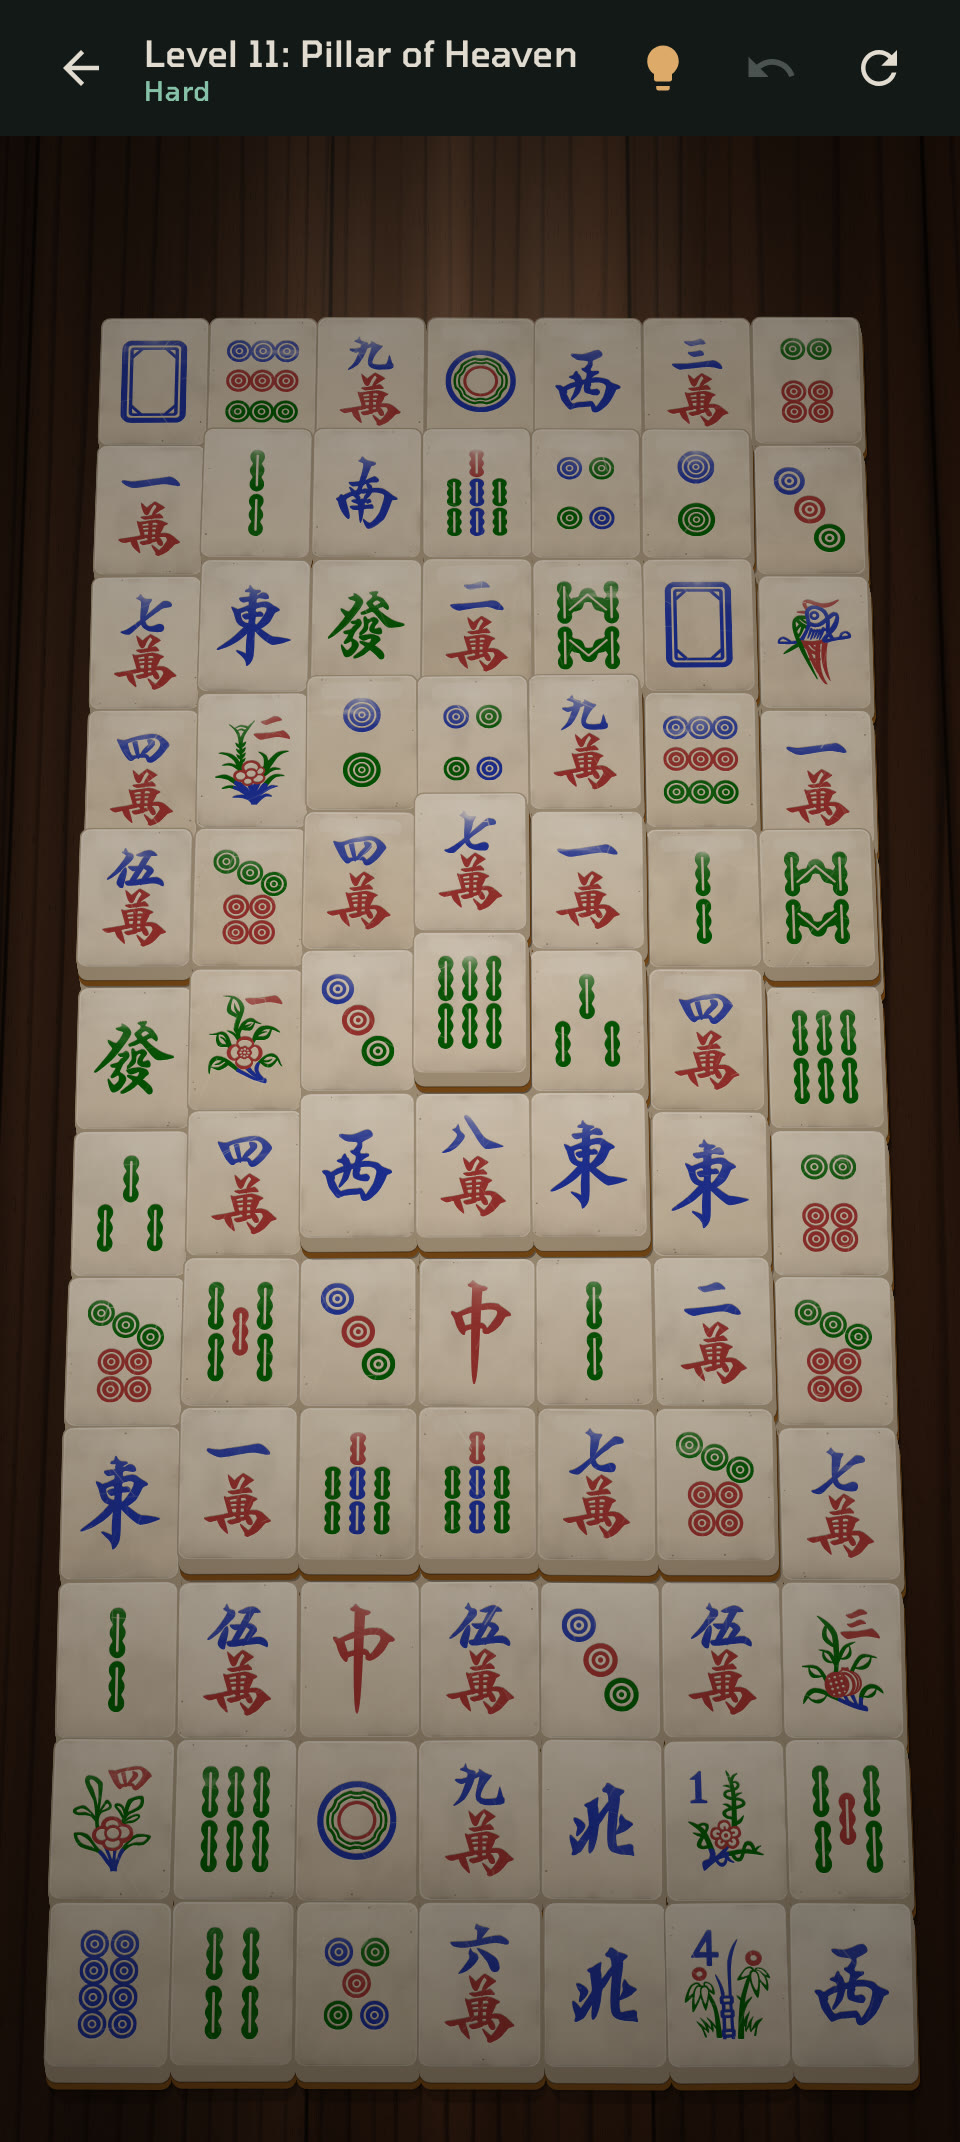
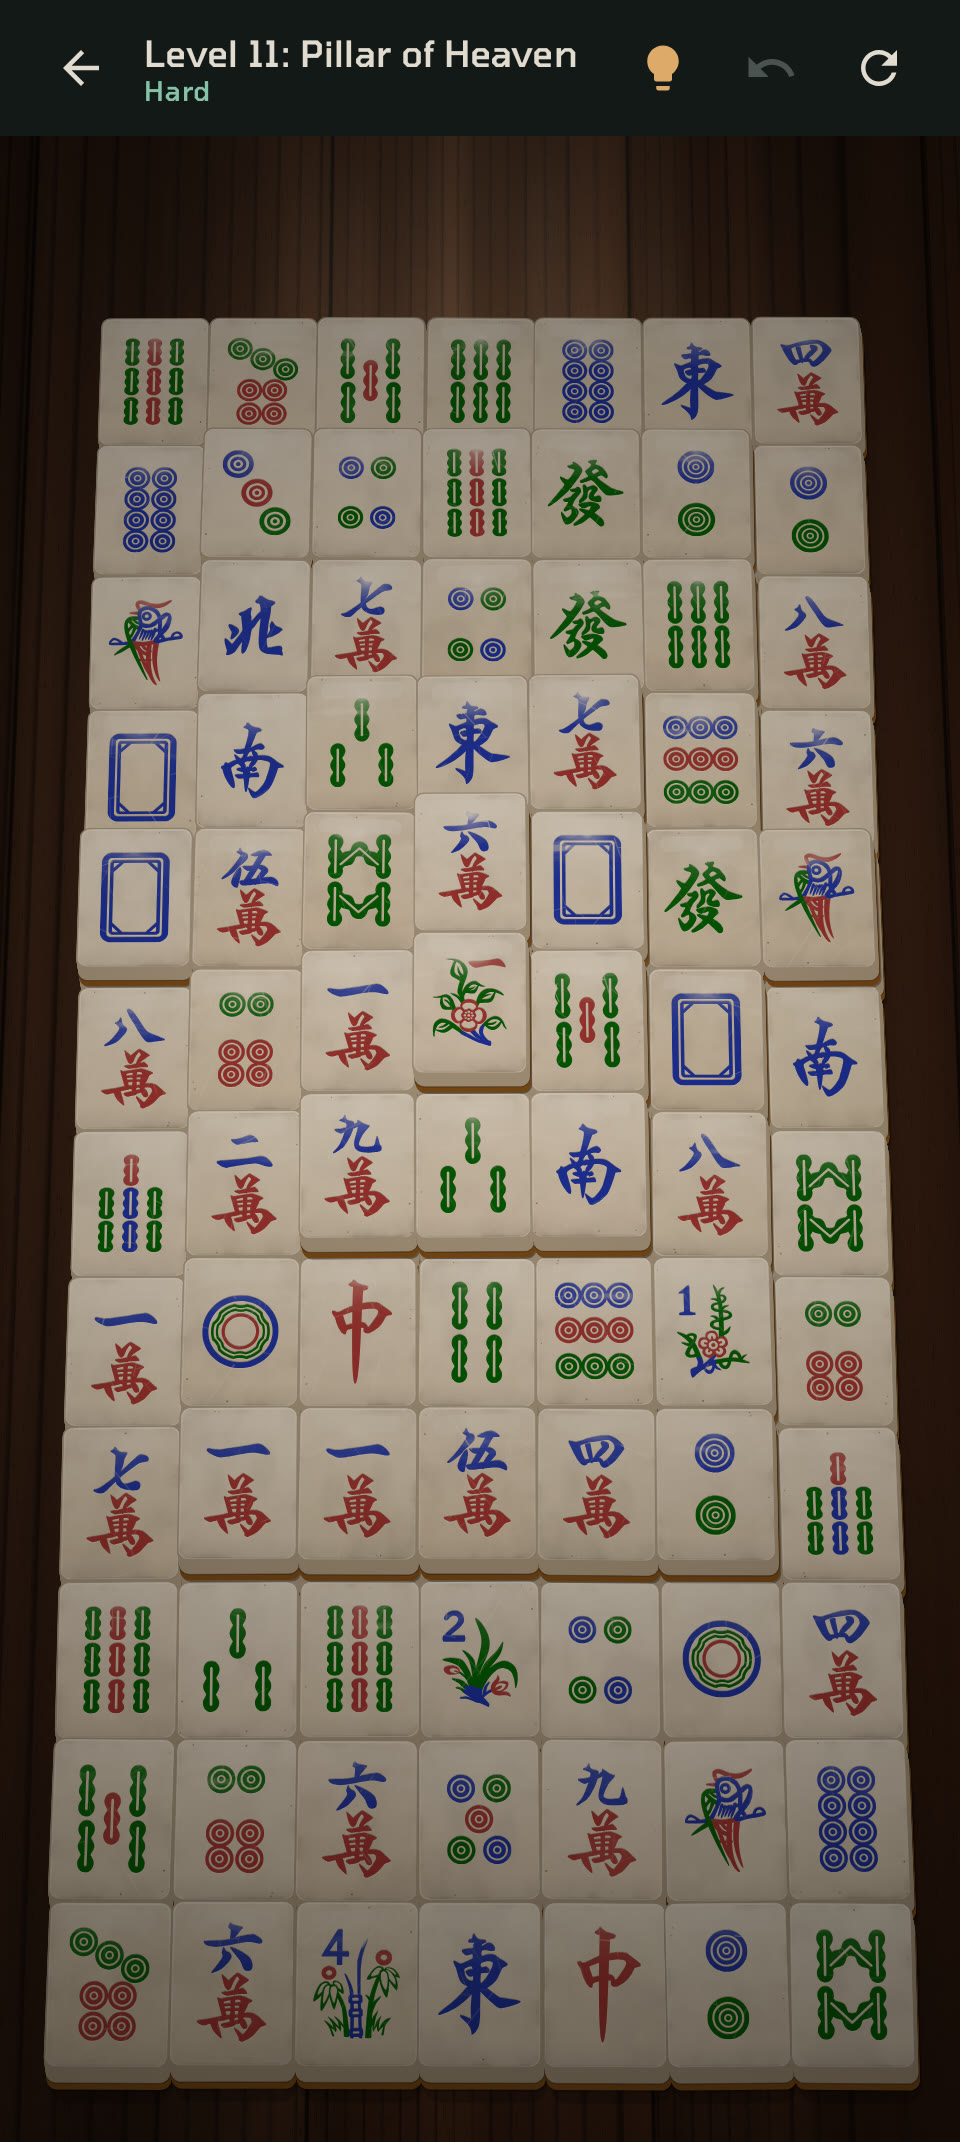
Billowing three-layer cloud on the title; walnut grain follows the perspective
- Title fog rewritten as moving cloud: three layers at different depths and
  speeds, each folded by evolving noise fields so it billows rather than
  slides; tops lit from the sky, cooler undersides; Beer-Lambert opacity for
  soft edges; ragged, shifting band edges. Rendered at 1/3 resolution into
  its own layer and scaled up, ~30 fps
- Walnut grain now runs strictly parallel to each board (ring spacing varies
  across a board, not along it), so its lines converge with the perspective
  like the tile columns
- README title, walnut and fog-animation images refreshed

diff --git a/app/src/main/java/com/vortessence/mahjong/ui/components/DriftingFog.kt b/app/src/main/java/com/vortessence/mahjong/ui/components/DriftingFog.kt
@@ -10,17 +10,26 @@ import androidx.compose.runtime.remember
 import androidx.compose.runtime.setValue
 import androidx.compose.ui.Modifier
 import androidx.compose.ui.draw.drawWithCache
+import androidx.compose.ui.graphics.CompositingStrategy
 import androidx.compose.ui.graphics.ShaderBrush
+import androidx.compose.ui.graphics.TransformOrigin
+import androidx.compose.ui.layout.layout
 import androidx.compose.ui.platform.LocalInspectionMode
+import androidx.compose.ui.unit.Constraints
 import kotlinx.coroutines.delay
 import kotlinx.coroutines.isActive
+import kotlin.math.roundToInt
 
 /**
- * Slow mist drifting sideways across the title photograph: two layers of soft, warped noise at
- * different speeds (parallax), gently changing shape as they go, thickest in the valley band.
- * Fog is soft, so it is redrawn at about 30 fps rather than every display frame.
+ * Clouds of mist moving across the title photograph. Three layers at different depths and speeds
+ * (broad slow banks behind, mid mist, quicker wisps in front), each billowing as it goes: its
+ * shape is folded by noise fields that themselves evolve, so it churns rather than slides. Cloud
+ * tops catch the sky's light, undersides are cooler; density becomes opacity the way real mist
+ * thins (Beer-Lambert), so every edge is soft, and the band's own top and bottom are ragged.
  *
- * [startSeconds] fixes the starting moment, so previews and tests are repeatable.
+ * Fog has no fine detail, so it is rendered at a third of the screen resolution into its own
+ * layer and smoothly scaled up, at about 30 fps. [startSeconds] fixes the moment shown, so
+ * previews and tests are repeatable.
  */
 @Composable
 fun DriftingFog(modifier: Modifier = Modifier, startSeconds: Float = 0f, animate: Boolean = true) {
@@ -36,16 +45,34 @@ fun DriftingFog(modifier: Modifier = Modifier, startSeconds: Float = 0f, animate
         }
     }
     Box(
-        modifier.drawWithCache {
-            shader.setFloatUniform("res", size.width, size.height)
-            val brush = ShaderBrush(shader)
-            onDrawBehind {
-                shader.setFloatUniform("time", time)
-                drawRect(brush)
+        modifier
+            .layout { measurable, constraints ->
+                val w = constraints.maxWidth
+                val h = constraints.maxHeight
+                val small = measurable.measure(
+                    Constraints.fixed((w / FOG_SCALE).roundToInt().coerceAtLeast(1), (h / FOG_SCALE).roundToInt().coerceAtLeast(1)),
+                )
+                layout(w, h) {
+                    small.placeWithLayer(0, 0) {
+                        scaleX = FOG_SCALE
+                        scaleY = FOG_SCALE
+                        transformOrigin = TransformOrigin(0f, 0f)
+                        compositingStrategy = CompositingStrategy.Offscreen
+                    }
+                }
             }
-        },
+            .drawWithCache {
+                shader.setFloatUniform("res", size.width, size.height)
+                val brush = ShaderBrush(shader)
+                onDrawBehind {
+                    shader.setFloatUniform("time", time)
+                    drawRect(brush)
+                }
+            },
     )
 }
+
+private const val FOG_SCALE = 3f
 
 private const val FOG_AGSL = """
 uniform float2 res;
@@ -68,30 +95,48 @@ float vnoise(float2 p) {
 float fbm(float2 p) {
     float v = 0.0;
     float a = 0.5;
-    for (int i = 0; i < 4; i++) {
+    for (int i = 0; i < 5; i++) {
         v += a * vnoise(p);
-        p = p * 2.07 + float2(1.7, 9.2);
+        p = p * 2.03 + float2(1.7, 9.2);
         a *= 0.5;
     }
     return v;
 }
 
+// One cloud layer's density: drifting sideways while folding in on itself. The warp fields
+// evolve with time, so the cloud billows and churns instead of sliding as a fixed pattern
+float cloud(float2 uv, float t, float speed, float scale, float seed) {
+    float2 q = float2(uv.x * scale + t * speed, uv.y * scale * 1.6 + seed);
+    float2 w1 = float2(fbm(q * 0.6 + float2(seed, t * 0.03)),
+                       fbm(q * 0.6 + float2(seed + 5.2, -t * 0.025)));
+    float2 w2 = float2(fbm(q + 2.0 * w1 + float2(1.7, 9.2) + t * 0.02),
+                       fbm(q + 2.0 * w1 + float2(8.3, 2.8) - t * 0.015));
+    return fbm(q + 2.2 * w2);
+}
+
 half4 main(float2 p) {
     float2 uv = p / res.y;
     float t = time;
-    // Far layer: broad banks of mist, slowly warping as they drift
-    float2 q1 = float2(uv.x * 1.6 + t * 0.018, uv.y * 3.2);
-    float2 w = float2(fbm(q1 * 0.7 + float2(0.0, t * 0.010)), fbm(q1 * 0.7 + float2(5.2, 1.3) - t * 0.008));
-    float f1 = fbm(q1 + 1.4 * w);
-    // Near layer: thinner wisps, moving a little faster
-    float2 q2 = float2(uv.x * 2.6 + t * 0.05 + 3.0, uv.y * 4.6 + 1.7);
-    float f2 = fbm(q2 + 0.8 * float2(fbm(q2 * 0.5 + t * 0.012), 0.0));
-    float fog = smoothstep(0.42, 0.85, f1) * 0.7 + smoothstep(0.52, 0.9, f2) * 0.45;
-    // Thickest in the valley band, thin near the top and bottom of the screen
+    // Three depths: broad slow banks, mid mist, quicker wisps in front (parallax)
+    float d1 = cloud(uv, t, 0.012, 1.1, 0.0);
+    float d2 = cloud(uv + 3.1, t, 0.022, 1.9, 11.0);
+    float d3 = cloud(uv + 7.4, t, 0.038, 3.2, 23.0);
+    float od = max(d1 - 0.42, 0.0) * 2.2 + max(d2 - 0.48, 0.0) * 1.5 + max(d3 - 0.56, 0.0) * 1.0;
+
+    // Heaviest in the valley; the band's top and bottom are ragged and shifting, never straight
     float y = p.y / res.y;
-    float band = smoothstep(0.10, 0.36, y) * (1.0 - smoothstep(0.62, 0.88, y));
-    float a = clamp(fog * (0.25 + 0.75 * band) * 0.4, 0.0, 1.0);
-    float3 mist = float3(0.60, 0.65, 0.63);
-    return half4(half3(mist * a), half(a));
+    float rag = (vnoise(float2(uv.x * 2.2 + t * 0.02, 3.3)) - 0.5) * 0.16
+              + (vnoise(float2(uv.x * 6.0 - t * 0.03, 7.1)) - 0.5) * 0.06;
+    float band = smoothstep(0.04 + rag, 0.36 + rag, y) * (1.0 - smoothstep(0.56 - rag, 0.92 - rag, y));
+    od *= 0.25 + 0.75 * band;
+
+    // Density to opacity as real mist thins: soft everywhere, never a hard edge
+    float alpha = (1.0 - exp(-od * 1.7)) * 0.6;
+
+    // Light from the sky above: tops brighter, undersides cooler and greyer
+    float above = cloud(uv - float2(0.0, 0.025), t, 0.012, 1.1, 0.0);
+    float lit = clamp(0.62 + (d1 - above) * 5.0, 0.25, 1.0);
+    float3 col = mix(float3(0.40, 0.45, 0.45), float3(0.72, 0.76, 0.74), lit);
+    return half4(half3(col * alpha), half(alpha));
 }
 """

diff --git a/app/src/main/java/com/vortessence/mahjong/ui/components/TableSurfaceRenderer.kt b/app/src/main/java/com/vortessence/mahjong/ui/components/TableSurfaceRenderer.kt
@@ -94,12 +94,11 @@ float3 walnut(float2 q, float fp) {
     float plank = floor(q.x / pw + 0.5);
     float lx = q.x - plank * pw;
     float seed = hash11(plank + 3.0);
-    // Ring position across the grain: mostly straight, gently and irregularly drifting
-    float drift = (fbm(float2(lx * 6.0 + seed * 9.0, q.y * 0.6 + seed * 21.0)) - 0.5) * 2.4
-                + (fbm(float2(lx * 2.0 + seed * 4.0, q.y * 0.18)) - 0.5) * 5.0;
-    // Ring spacing varies across the board, from tight to open growth
-    float density = 50.0 + 40.0 * vnoise(float2(lx * 5.0 + seed * 11.0, q.y * 0.15 + seed));
-    float d = (lx + seed) * density + drift;
+    // Grain runs strictly along the board, parallel to its edges, so (like the tile columns)
+    // every line converges with the perspective. Ring spacing varies across the board, from
+    // tight to open growth, but stays constant along it; only a tiny natural waver remains
+    float density = 50.0 + 40.0 * vnoise(float2(lx * 5.0 + seed * 11.0, seed * 3.0));
+    float d = (lx + seed) * density + 0.16 * (vnoise(float2(lx * 40.0 + seed, q.y * 1.2)) - 0.5);
     float ring = fract(d);
     // Soft earlywood into a narrow, darker latewood line; uneven ring strength
     float late = smoothstep(0.7, 0.92, ring) * (1.0 - smoothstep(0.92, 1.0, ring));

diff --git a/docs/DESIGN.md b/docs/DESIGN.md
@@ -53,7 +53,11 @@ A family of **AGSL fragment shaders**, one palette per journey chapter: e.g. mid
 ### Title screen
 
 - **Photo:** full-bleed, darkened, misty Chinese mountains, cropped to a tall portrait frame with the lone pine in the middle: *Sanqing Mountain is surrounded by clouds and mists* (Huangdan2060, CC0, Wikimedia Commons). Scaled uniformly and never stretched, with subtle film grain (AGSL). A tiny courtesy credit sits bottom-right.
-- **Drifting fog:** two layers of soft, warped AGSL noise drift slowly sideways at different speeds, reshaping as they go and thickest in the valley band. Redrawn at about 30 fps.
+- **Moving cloud:** three AGSL layers at different depths and speeds (broad slow banks, mid mist, quicker wisps in front).
+  - **Billowing:** each layer is folded by noise fields that themselves evolve, so the cloud churns rather than slides.
+  - **Light:** tops catch the sky's light, undersides are cooler.
+  - **Soft edges:** density becomes opacity as real mist thins (Beer-Lambert), and the band's top and bottom are ragged and shifting.
+  - **Cost:** rendered at a third of the screen resolution and smoothly scaled up, at about 30 fps.
 - **Top, over the misty sky:** the **暗夜麻將** name seal (seal script, from Taiwan's CNS 11643 說文解字 font, subset; white on deep vermilion with carved-stone wear) and "DARK MAHJONG" in **Cinzel**, 19sp.
 - **Bottom, over the dark forest:** a plain text menu in Cinzel 17sp, left-aligned (Continue · Play · Layouts · Settings). Items brighten while pressed and give a soft click plus a light haptic.
 
@@ -70,7 +74,7 @@ A family of **AGSL fragment shaders**, one palette per journey chapter: e.g. mid
   - **Engraved artwork:** the paint sits in carved grooves, so a fine shadow falls along each stroke's upper edge and a fine light edge along its lower lip.
 - **Tabletops:** all are drawn by one full-screen AGSL shader in true perspective.
   - **Green Mat:** fine felt fibres and soft mottling, matte.
-  - **Walnut:** procedural narrow boards with uneven straight grain, heartwood streaks, tiny pores, fine seams and a glossy clearcoat reflecting the lamp.
+  - **Walnut:** procedural narrow boards whose grain runs strictly parallel to the board edges, so every line converges with the perspective like the tile columns. Ring spacing varies across a board but not along it. Heartwood streaks, tiny pores, fine seams, and a glossy clearcoat reflecting the lamp.
   - **Thai Straw:** a woven sedge mat, redrawn procedurally from measurements of a real one (Willuconquer's photo, CC BY-SA 4.0; the photo itself bowed, so tiling it looked wavy). It lies perfectly flat, with rows square to the tiles.
     - **Weave:** tightly packed reed spindles about 11.5 strand-widths long with slightly staggered pointed tips, binding thread glimpsed between the tips.
     - **Pattern:** straw/jade stripe bands, rose separator rows, and rose motif rows with stepped blocks.

diff --git a/README.md b/README.md
@@ -22,7 +22,7 @@ Dark Mahjong is a fork of **[Mahjong Solitaire by PcmciaKai](https://github.com/
 
 ### A darker ambience
 - **One lamp over the table.** The table is lit by a single warm lamp and the room falls away into darkness. Tiles and tabletop share the same light, brightest in the middle and dim at the edges, but never too dark to read a tile.
-- **A misty title screen.** A real photograph of Sanqing Mountain in cloud, darkened, with subtle film grain and fog drifting slowly across it (an AGSL shader). Above it sits a name seal, **暗夜麻將** ("dark-night mahjong"), in genuine seal script.
+- **A misty title screen.** A real photograph of Sanqing Mountain in cloud, darkened, with subtle film grain and live clouds of mist billowing slowly across it (an AGSL shader). Above it sits a name seal, **暗夜麻將** ("dark-night mahjong"), in genuine seal script.
 - **Dark everywhere else too.** One quiet colour palette, minimalist menus, no light theme.
 
 ### A different look
